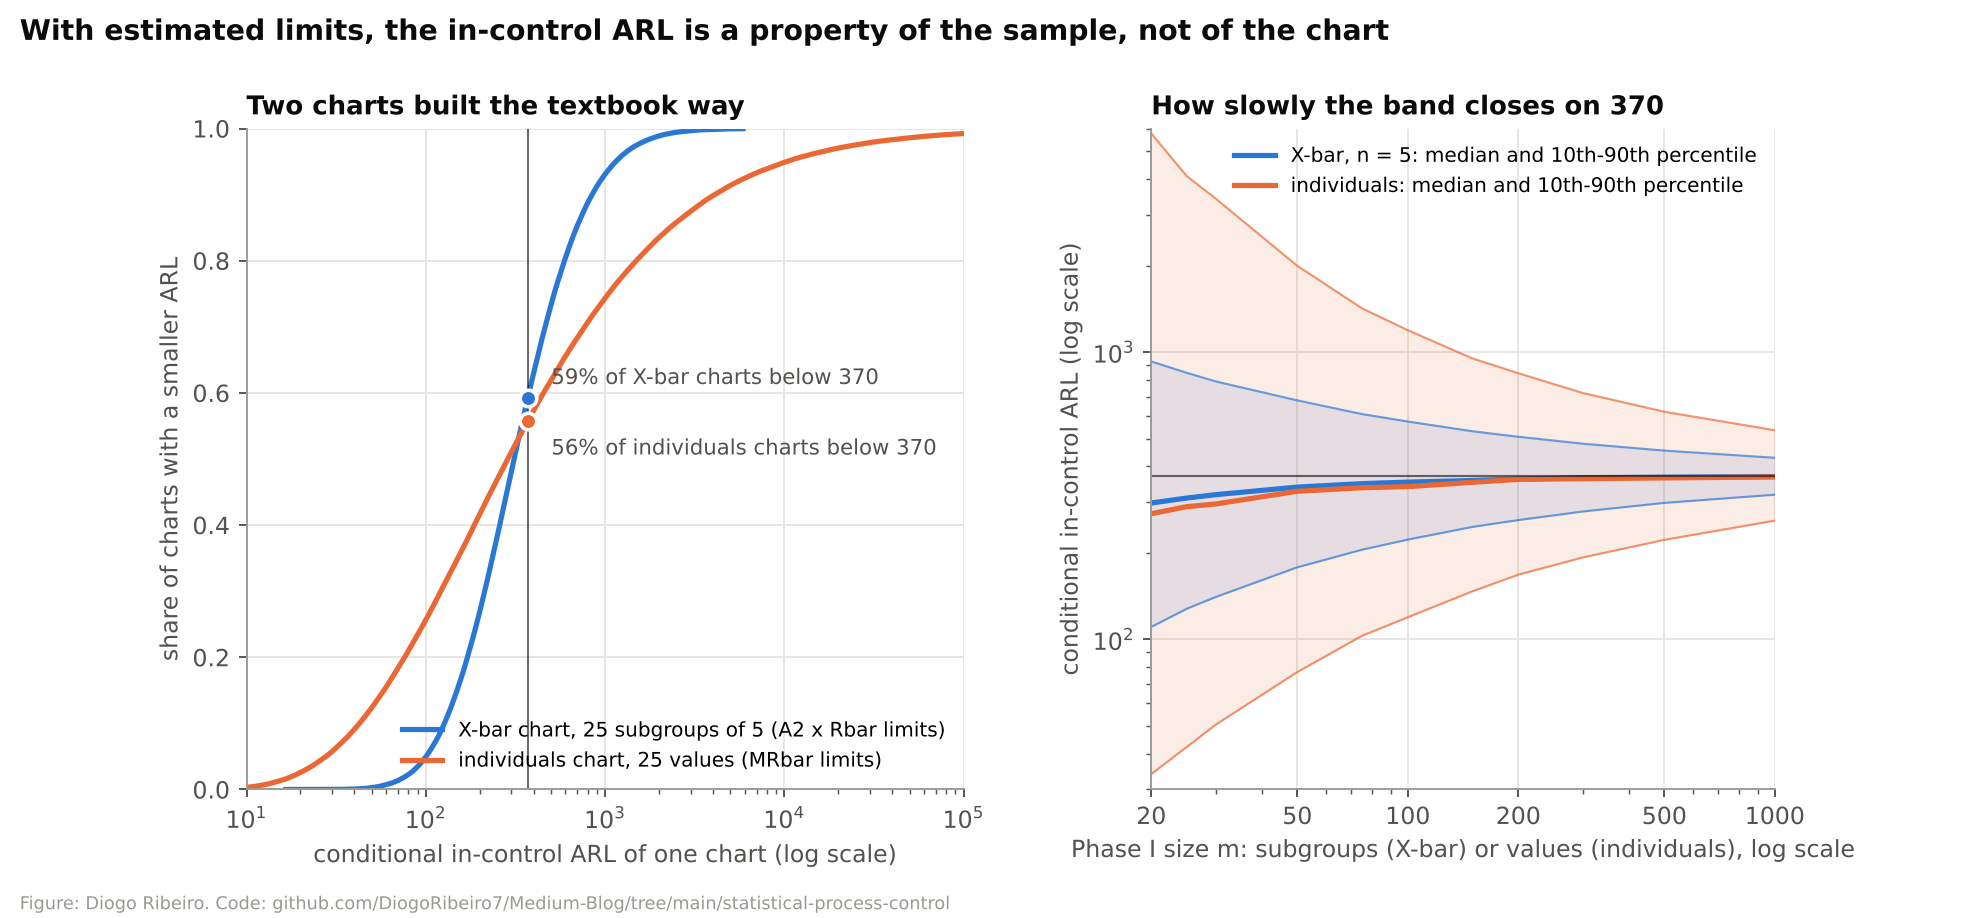
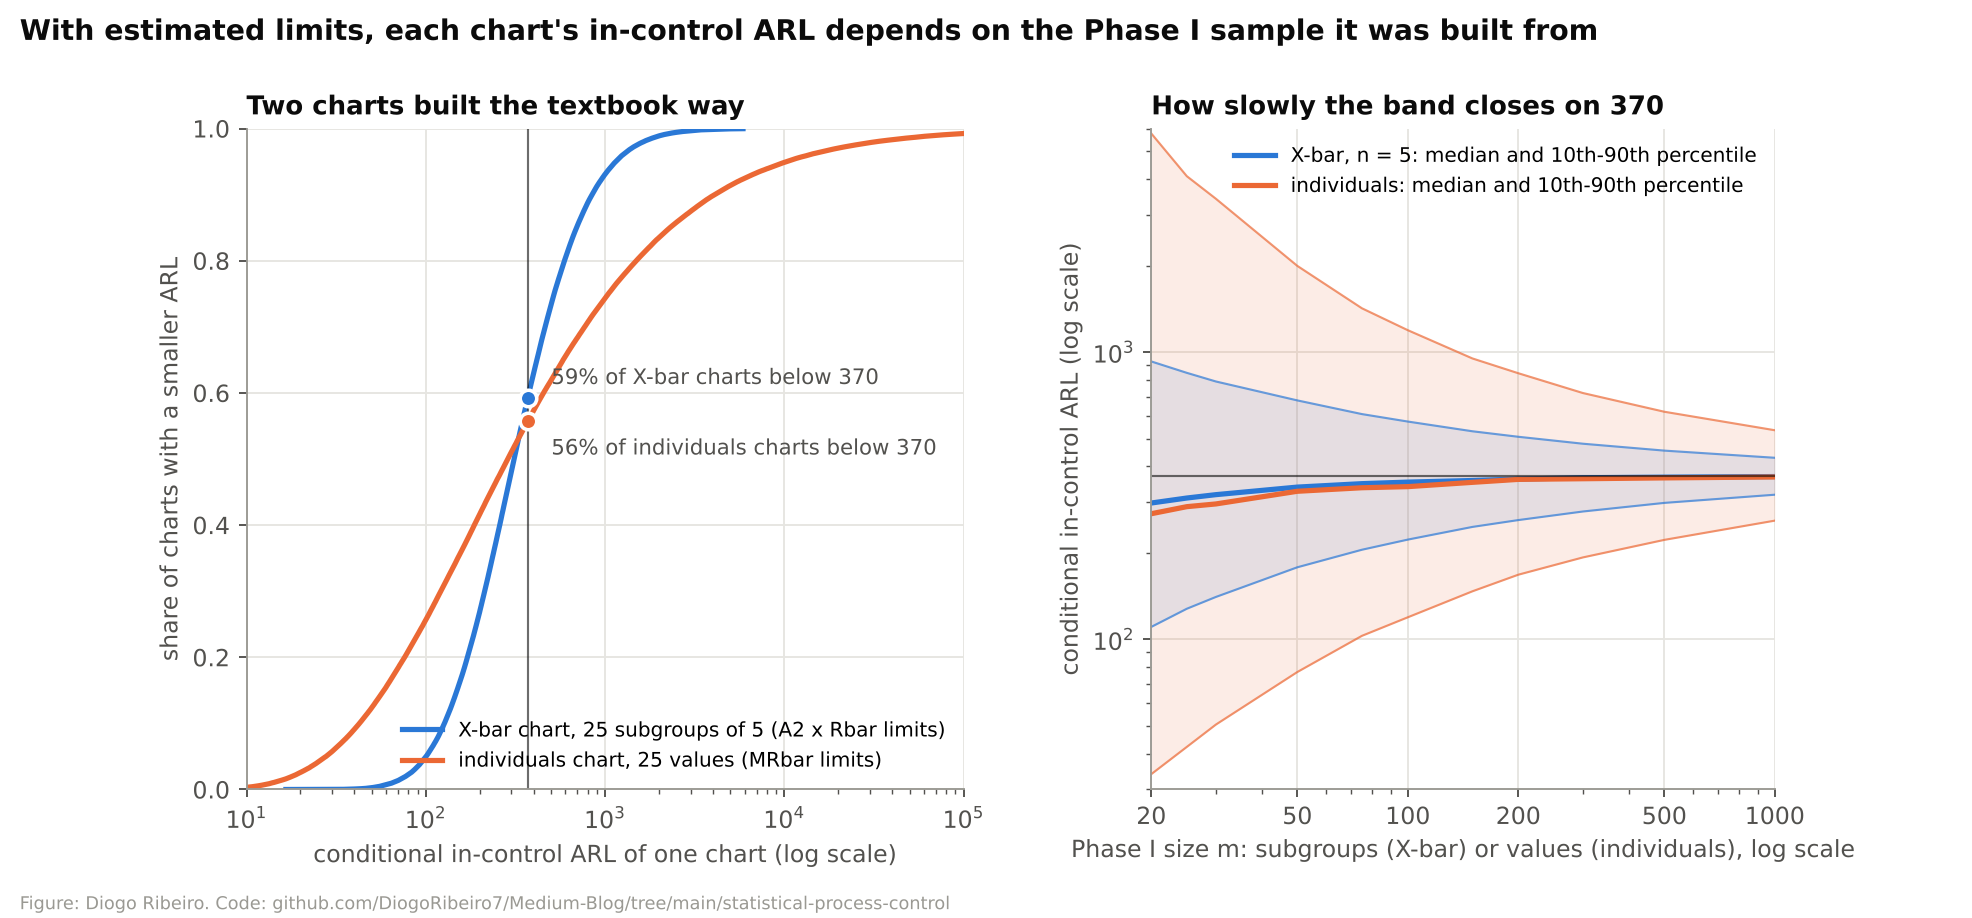
Statistical process control part 1: corrections from verification

Changed region(s): [[0.1856, 0.0, 0.8043, 0.061]]

diff --git a/statistical-process-control/part1/history_numbers.py b/statistical-process-control/part1/history_numbers.py
@@ -363,24 +363,37 @@ def tail_individual(dist) -> tuple[float, float]:
 
 def tail_mean_of_n(dist, n: int, step: float = 0.002, half_width: float = 60.0) -> tuple[float, float, float]:
     """Tails beyond +-3 sigma/sqrt(n) of the mean of n i.i.d. draws, by numerical convolution of the
-    standardized density on a grid (trapezoid-consistent discretization of the CDF)."""
+    standardized distribution discretized on a grid.  The mass of each cell of the n-fold sum is treated as
+    spread uniformly over the cell, so the cell that straddles the cut contributes its fractional part."""
     from scipy.signal import fftconvolve
     mu, sd = standardized(dist)
     edges = np.arange(-half_width, half_width + step / 2, step)
     cdf = dist.cdf(mu + sd * edges)
-    mass = np.diff(cdf)
-    mass = np.clip(mass, 0, None)
+    mass = np.clip(np.diff(cdf), 0, None)
     lost = 1 - mass.sum()
     total = mass.copy()
     for _ in range(n - 1):
-        total = fftconvolve(total, mass)
-        total = np.clip(total, 0, None)
-    # cell j of the n-fold sum has midpoint n*(-half_width) + (j + n/2) * step
+        total = np.clip(fftconvolve(total, mass), 0, None)
+    # cell j of the n-fold sum has midpoint n*(-half_width) + (j + n/2) * step and width step
     mids = n * (-half_width) + (np.arange(total.size) + n / 2) * step
+    lo_edge, hi_edge = mids - step / 2, mids + step / 2
     cut = 3 * math.sqrt(n)  # the sum of n standardized values, with limits at 3 sigma of the mean
-    upper = total[mids > cut].sum()
-    lower = total[mids < -cut].sum()
-    return float(upper), float(lower), float(lost)
+    up_frac = np.clip((hi_edge - cut) / step, 0, 1)
+    lo_frac = np.clip((-cut - lo_edge) / step, 0, 1)
+    return float((total * up_frac).sum()), float((total * lo_frac).sum()), float(lost)
+
+
+def irwin_hall_sf(x: float, n: int) -> float:
+    """Survival function of the sum of n independent uniform(0, 1) variables."""
+    cdf = sum((-1) ** k * math.comb(n, k) * (x - k) ** n for k in range(int(math.floor(x)) + 1)) / math.factorial(n)
+    return 1.0 - cdf
+
+
+def laplace_sum_sf(c: float, n: int) -> float:
+    """P(sum of n standard Laplace variables > c), as P(G1 - G2 > c) with G1, G2 ~ Gamma(n, 1) independent."""
+    g = stats.gamma(n)
+    val, _ = integrate.quad(lambda y: g.pdf(y) * g.sf(y + c), 0, np.inf, limit=200)
+    return val
 
 
 def section_nonnormal() -> None:
@@ -404,7 +417,9 @@ def section_nonnormal() -> None:
         sk, ku = (float(x) for x in d.stats(moments="sk"))
         print(f"    {name:30s} skew {sk:5.2f}, excess kurtosis {ku:6.2f}: upper {up:.5f}, lower {lo:.5f}, total {p:.5f},"
               f" ARL {fmt_arl(1 / p) if p > 0 else 'infinite'}")
-    print("  means of n = 5: numerical convolution (grid step 0.002); exact gamma result shown for the check")
+    print("  means of n = 5: numerical convolution (grid step 0.002) for all eight; exact results printed beside it where a")
+    print("  closed form or a one-dimensional integral exists (normal, uniform via Irwin-Hall, Laplace via a difference of gammas,")
+    print("  gamma and exponential via the gamma distribution of the sum)")
     for name, d in dists:
         up, lo, lost = tail_mean_of_n(d, 5)
         p = up + lo
@@ -420,7 +435,14 @@ def section_nonnormal() -> None:
             ex_lo = exact.cdf(4 - 3 * 2 / math.sqrt(5))
             extra = f"  [exact gamma(20): upper {ex_up:.5f}, lower {ex_lo:.5f}, ARL {1 / (ex_up + ex_lo):.1f}]"
         elif name == "normal":
-            extra = f"  [exact: {2 * PHIBAR(3):.5f}]"
+            extra = f"  [exact: total {2 * PHIBAR(3):.5f}, ARL {1 / (2 * PHIBAR(3)):.1f}]"
+        elif name == "uniform":
+            # sum of 5 uniform(0,1): mean 2.5, sd sqrt(5/12); limits at 3 sd of the sum
+            ex = irwin_hall_sf(2.5 + 3 * math.sqrt(5 / 12), 5)
+            extra = f"  [exact Irwin-Hall: upper {ex:.5f}, lower {ex:.5f}, ARL {1 / (2 * ex):.1f}]"
+        elif name.startswith("Laplace"):
+            ex = laplace_sum_sf(3 * math.sqrt(5) * math.sqrt(2), 5)
+            extra = f"  [exact difference of gammas: upper {ex:.5f}, lower {ex:.5f}, ARL {1 / (2 * ex):.1f}]"
         print(f"    {name:30s} upper {up:.5f}, lower {lo:.5f}, total {p:.5f}, ARL {fmt_arl(1 / p) if p > 0 else 'infinite'}{extra}")
 
 
@@ -550,6 +572,15 @@ def section_estimated() -> None:
     lo_s, hi_s = np.percentile(sd_rel, [10, 90])
     print(f"    a chart whose sigma_hat is 10% low (0.90 sigma) and mean exact: ARL {1 / conditional_p(np.array([0.0]), np.array([0.9]), 5)[0]:.1f};"
           f" 10% high (1.10 sigma): {1 / conditional_p(np.array([0.0]), np.array([1.1]), 5)[0]:.1f}")
+    c_full = 1 / p
+    c_sig = 1 / conditional_p(np.zeros_like(s_hat), s_hat, 5)
+    c_mu = 1 / conditional_p(mu_hat, np.ones_like(mu_hat), 5)
+    print(f"    the two estimation errors separately: median conditional ARL with sigma_hat error only (exact centre line)"
+          f" {np.median(c_sig):.1f}; with centre-line error only (exact sigma) {np.median(c_mu):.1f}; both {np.median(c_full):.1f}")
+    print(f"    variance of log conditional ARL: both errors {np.log(c_full).var():.3f}; sigma_hat only {np.log(c_sig).var():.3f};"
+          f" centre line only {np.log(c_mu).var():.3f}")
+    print(f"    a centre-line error alone never lengthens the run: share of charts with exact sigma and ARL above 370.4:"
+          f" {np.mean(c_mu > 370.4):.3f}")
     a_lo = 1 / conditional_p(np.array([0.0]), np.array([0.9]), 5)[0]
     a_hi = 1 / conditional_p(np.array([0.0]), np.array([1.1]), 5)[0]
     print(f"    two charts only, sigma_hat 10% low and 10% high: reciprocal of their average false-alarm probability"

diff --git a/statistical-process-control/part1/figures.py b/statistical-process-control/part1/figures.py
@@ -216,7 +216,7 @@ def figure_estimated_limits() -> None:
     ax2.set_ylabel("conditional in-control ARL (log scale)")
     ax2.set_title("How slowly the band closes on 370")
     ax2.legend(loc="upper right", fontsize=8.5)
-    fig.suptitle("With estimated limits, the in-control ARL is a property of the sample, not of the chart",
+    fig.suptitle("With estimated limits, each chart's in-control ARL depends on the Phase I sample it was built from",
                  x=0.01, ha="left", fontsize=12, fontweight="bold", color=INK)
     fig.subplots_adjust(top=0.86, bottom=0.14, wspace=0.28)
     credit(fig)
